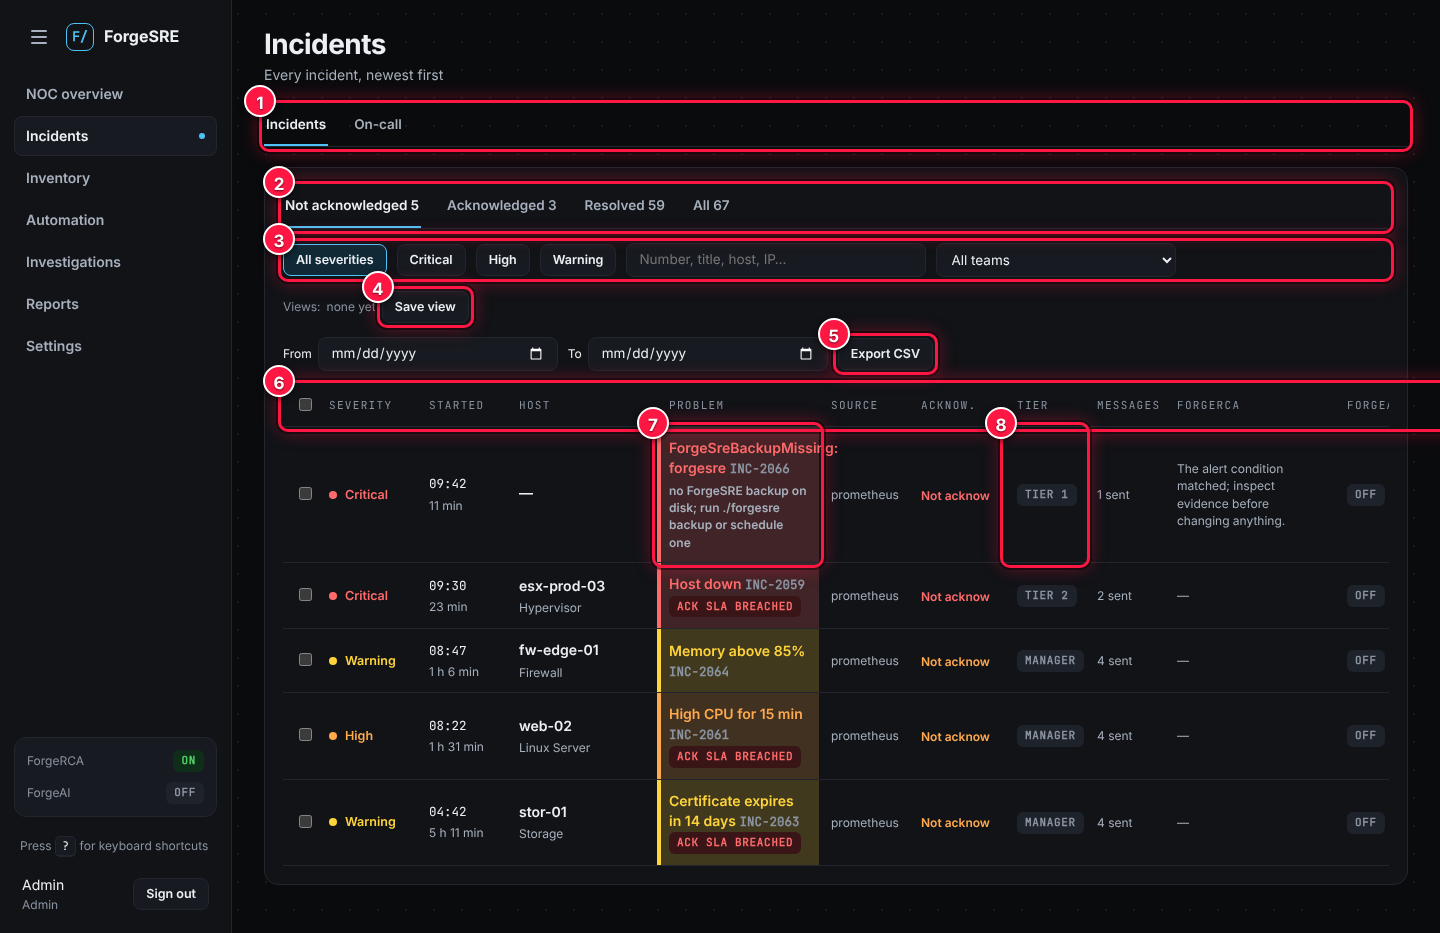
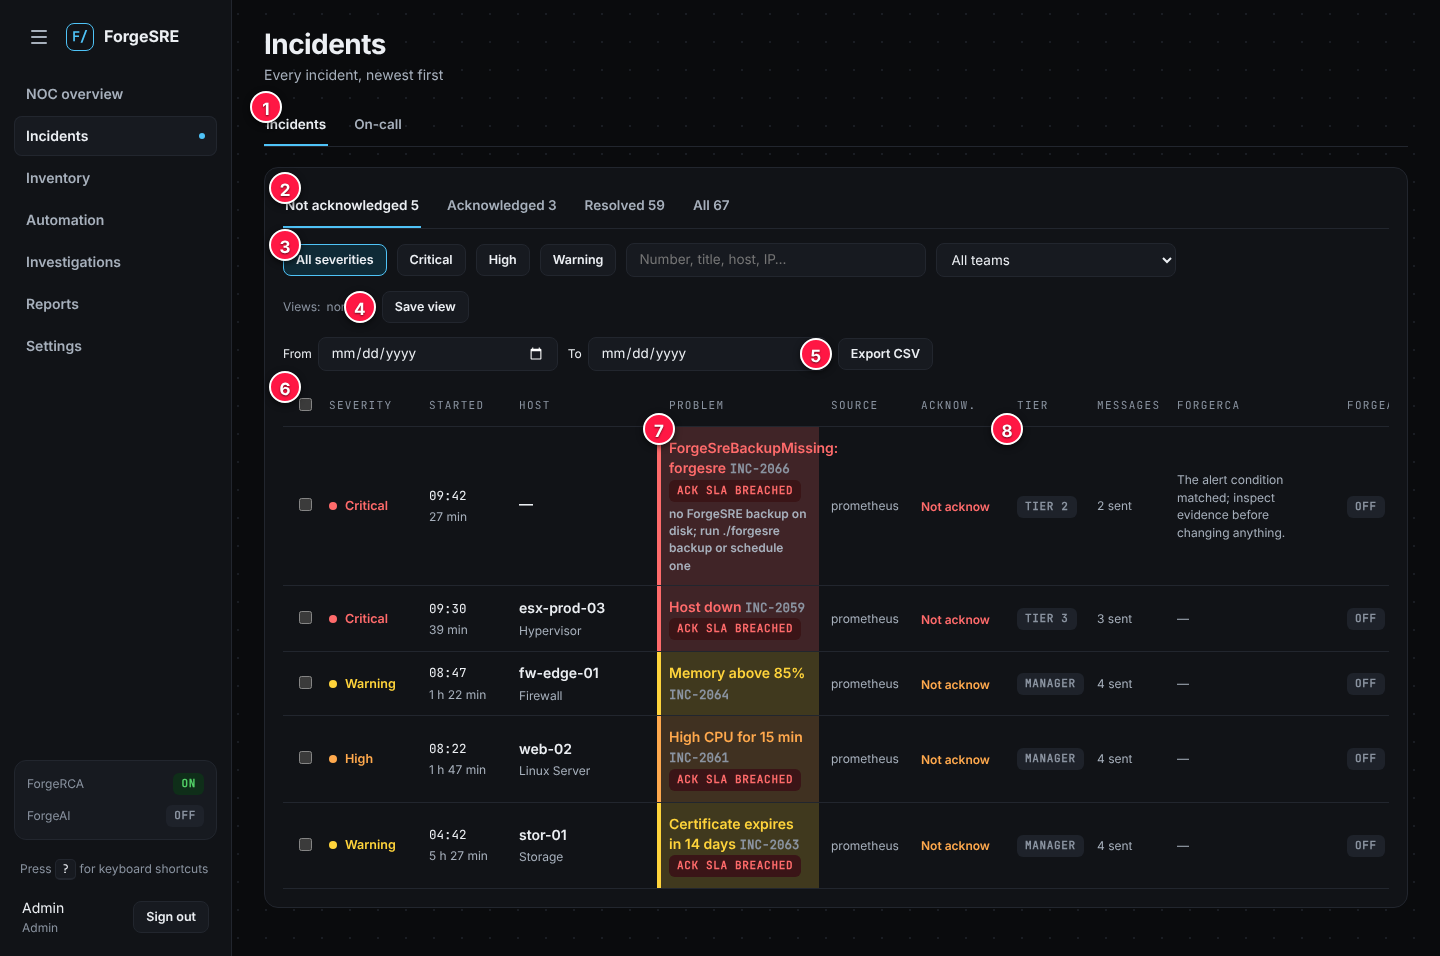
Visual guide: red numbered circles only, no frames; circles beside small targets
Claude-Session: https://claude.ai/code/session_01K9hus2JZBeXGjiRoAgeJJH

diff --git a/scripts/visual_guide.py b/scripts/visual_guide.py
@@ -1,8 +1,8 @@
 #!/usr/bin/env python3
 """Build the visual guide: screenshots of each page with numbered, coloured markers.
 
-Opens every page of the UI in a headless browser, draws a coloured frame and a numbered
-circle around each element described in PAGES, saves docs/guide/<page>.png and writes
+Opens every page of the UI in a headless browser, puts a numbered red circle on the
+corner of each element described in PAGES, saves docs/guide/<page>.png and writes
 docs/visual-guide.md (English) and docs/vizuelni-vodic-sr.md (Serbian) with one line per
 number. Run it against a demo or lab install after a UI change, then commit the result:
 
@@ -213,21 +213,17 @@ OVERLAY_JS = """
   const placed = [];
   for (const b of boxes) {
     // move a circle that would cover an earlier one to the right
-    let bx = Math.max(2, b.x - 20), by = Math.max(2, b.y - 20);
+    // small targets (a checkbox, one word): the circle sits just left of them, not on top
+    const small = b.w < 120 && b.h < 40;
+    let bx = small ? Math.max(2, b.x - 38) : Math.max(2, b.x - 14), by = small ? b.y + b.h / 2 - 16 : Math.max(2, b.y - 14);
     while (placed.some(([px, py]) => Math.abs(px - bx) < 36 && Math.abs(py - by) < 36)) bx += 38;
     placed.push([bx, by]);
-    const frame = document.createElement('div');
-    frame.className = 'vg-mark';
-    Object.assign(frame.style, { position: 'absolute', left: (b.x - 5) + 'px', top: (b.y - 5) + 'px', width: (b.w + 10) + 'px',
-      height: (b.h + 10) + 'px', border: `3px solid ${b.color}`, borderRadius: '10px', zIndex: 99998, pointerEvents: 'none',
-      boxShadow: `0 0 0 2px rgba(0,0,0,.45), 0 0 18px ${b.color}66` });
     const dot = document.createElement('div');
     dot.className = 'vg-mark';
     dot.textContent = String(b.n);
     Object.assign(dot.style, { position: 'absolute', left: bx + 'px', top: by + 'px', width: '32px',
       height: '32px', borderRadius: '50%', background: b.color, color: '#fff', font: '700 17px/32px Inter, sans-serif', textAlign: 'center',
       zIndex: 99999, pointerEvents: 'none', border: '2px solid #fff', boxShadow: '0 2px 6px rgba(0,0,0,.6)', textShadow: '0 1px 2px rgba(0,0,0,.6)' });
-    document.body.appendChild(frame);
     document.body.appendChild(dot);
   }
 }
@@ -237,9 +233,9 @@ OVERLAY_JS = """
 def _markdown(pages: list[tuple[Page, list[tuple[int, Step]]]], lang: str) -> str:
     """One section per page: the picture, then one line per number in the marker's colour."""
     sr = lang == "sr"
-    head = ("# Vizuelni vodič\n\nSvaka stranica ForgeSRE-a sa obojenim brojevima; ispod slike piše šta je koji broj.\n"
+    head = ("# Vizuelni vodič\n\nSvaka stranica ForgeSRE-a sa crvenim brojevima; ispod slike piše šta je koji broj.\n"
             "Slike pravi `scripts/visual_guide.py`; engleska verzija: [visual-guide.md](visual-guide.md).\n") if sr else (
-            "# Visual guide\n\nEach ForgeSRE page with coloured numbers; under the picture, what each number is.\n"
+            "# Visual guide\n\nEach ForgeSRE page with numbered red circles; under the picture, what each number is.\n"
             "The pictures come from `scripts/visual_guide.py`; Serbian: [vizuelni-vodic-sr.md](vizuelni-vodic-sr.md).\n")
     out = [head]
     out.append("\n".join(f"- [{p.title_sr if sr else p.title_en}](#{p.key})" for p, _ in pages) + "\n")

diff --git a/docs/ui.md b/docs/ui.md
@@ -309,8 +309,8 @@ python scripts/screenshots.py --only noc,incident     # just a few pages
 
 ## Visual guide
 
-[visual-guide.md](visual-guide.md) ([Serbian](vizuelni-vodic-sr.md)) shows each page with coloured,
-numbered markers and one line per number. `scripts/visual_guide.py` makes the pictures
+[visual-guide.md](visual-guide.md) ([Serbian](vizuelni-vodic-sr.md)) shows each page with numbered
+red circles and one line per number. `scripts/visual_guide.py` makes the pictures
 (`docs/guide/*.png`) and both pages from the `PAGES` list in the script; run it against a demo
 install after a UI change (`--check` lists selectors that no longer match):
 

diff --git a/docs/visual-guide.md b/docs/visual-guide.md
@@ -1,6 +1,6 @@
 # Visual guide
 
-Each ForgeSRE page with coloured numbers; under the picture, what each number is.
+Each ForgeSRE page with numbered red circles; under the picture, what each number is.
 The pictures come from `scripts/visual_guide.py`; Serbian: [vizuelni-vodic-sr.md](vizuelni-vodic-sr.md).
 
 - [NOC overview](#noc)

diff --git a/docs/vizuelni-vodic-sr.md b/docs/vizuelni-vodic-sr.md
@@ -1,6 +1,6 @@
 # Vizuelni vodič
 
-Svaka stranica ForgeSRE-a sa obojenim brojevima; ispod slike piše šta je koji broj.
+Svaka stranica ForgeSRE-a sa crvenim brojevima; ispod slike piše šta je koji broj.
 Slike pravi `scripts/visual_guide.py`; engleska verzija: [visual-guide.md](visual-guide.md).
 
 - [NOC pregled](#noc)
